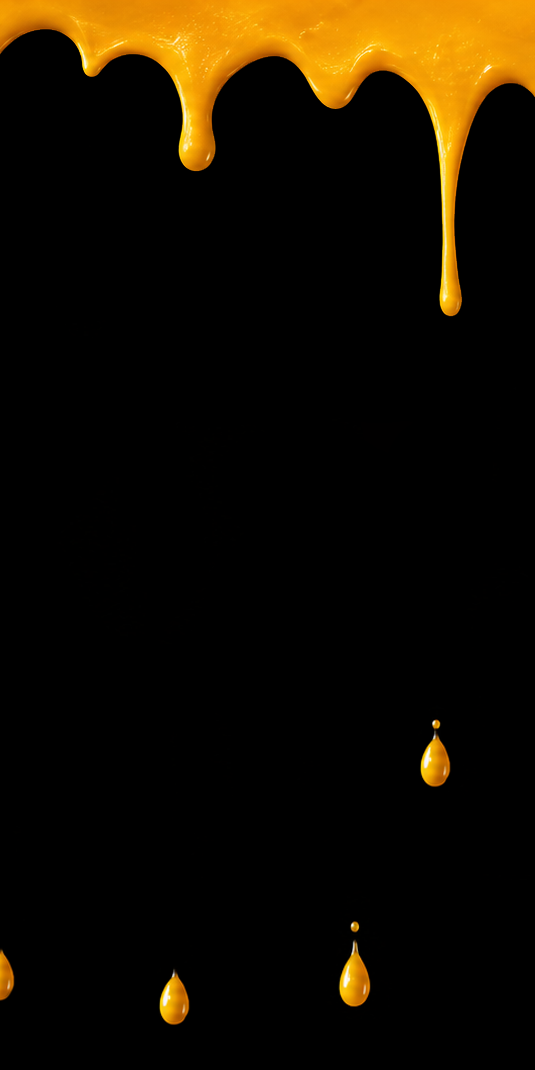
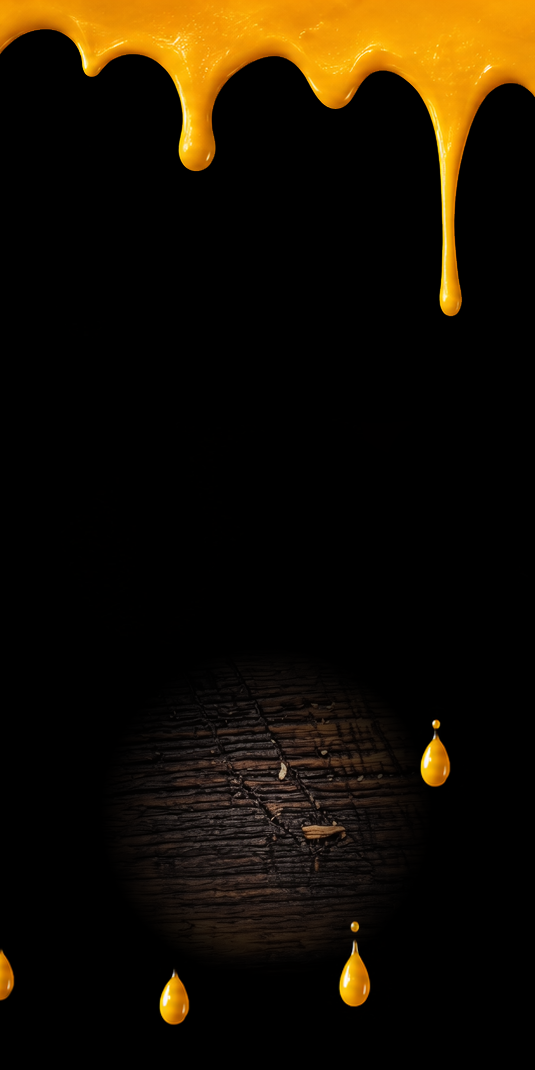
hero y navbar casi acabados

Changed region(s): [[0.2692, 0.6477, 0.7477, 0.8944]]

diff --git a/index.html b/index.html
@@ -41,8 +41,18 @@
                                         href="#contact">Contact</a>
                         </div>
                         <!-- Desktop CTA -->
-                        <div class="hidden md:block">
-                                <a class="bg-primary-container text-black px-6 py-2 rounded-full font-label-sm text-label-sm hover:bg-primary transition-all duration-200 hover:scale-105 active:scale-95 uppercase tracking-widest font-bold shadow-[0_4px_14px_rgba(255,186,32,0.2)] border-2 border-black flex items-center gap-2"
+                        <div class="hidden md:flex items-center gap-3">
+                                <a class="bg-black text-white px-6 py-2 rounded-full font-label-sm text-label-sm hover:bg-black transition-all duration-200 hover:scale-105 active:scale-95 uppercase tracking-widest font-bold border-2 border-white flex items-center gap-2"
+                                        href="https://maps.app.goo.gl/KH9D7vbmQKSd7YmFA">
+                                        <svg xmlns="http://www.w3.org/2000/svg" viewBox="0 0 24 24" fill="currentColor"
+                                                width="18" height="18">
+                                                <path fill-rule="evenodd"
+                                                        d="M11.54 22.351l.07.04.028.016a.76.76 0 00.723 0l.028-.015.071-.041a16.975 16.975 0 001.144-.742 19.58 19.58 0 002.683-2.282c1.944-1.99 3.963-4.98 3.963-8.827a8.25 8.25 0 00-16.5 0c0 3.846 2.02 6.837 3.963 8.827a19.58 19.58 0 002.682 2.282 16.975 16.975 0 001.145.742zM12 13.5a3 3 0 100-6 3 3 0 000 6z"
+                                                        clip-rule="evenodd" />
+                                        </svg>
+                                        Find Us
+                                </a>
+                                <a class="bg-black text-white px-6 py-2 rounded-full font-label-sm text-label-sm hover:bg-black transition-all duration-200 hover:scale-105 active:scale-95 uppercase tracking-widest font-bold border-2 border-white flex items-center gap-2"
                                         href="https://wolt.com/en/isl/reykjavik/restaurant/andrezrvk">
                                         <svg xmlns="http://www.w3.org/2000/svg" viewBox="60 95 150 110" width="22"
                                                 height="16">
@@ -76,7 +86,17 @@
                                 href="#reviews">Reviews</a>
                         <a class="text-on-surface hover:text-primary-container pl-3 py-2 font-label-sm text-label-sm transition-colors duration-200 uppercase tracking-widest border-b border-surface-container-high/50"
                                 href="#contact">Contact</a>
-                        <a class="bg-primary-container text-black text-center py-3.5 rounded-full font-label-sm text-label-sm hover:bg-primary transition-all duration-200 uppercase tracking-widest font-bold mt-4 border-2 border-black flex items-center justify-center gap-2"
+                        <a class="bg-black text-white text-center py-3.5 rounded-full font-label-sm text-label-sm hover:bg-black transition-all duration-200 uppercase tracking-widest font-bold mt-4 border-2 border-white flex items-center justify-center gap-2"
+                                href="https://maps.app.goo.gl/KH9D7vbmQKSd7YmFA">
+                                <svg xmlns="http://www.w3.org/2000/svg" viewBox="0 0 24 24" fill="currentColor"
+                                        width="20" height="20">
+                                        <path fill-rule="evenodd"
+                                                d="M11.54 22.351l.07.04.028.016a.76.76 0 00.723 0l.028-.015.071-.041a16.975 16.975 0 001.144-.742 19.58 19.58 0 002.683-2.282c1.944-1.99 3.963-4.98 3.963-8.827a8.25 8.25 0 00-16.5 0c0 3.846 2.02 6.837 3.963 8.827a19.58 19.58 0 002.682 2.282 16.975 16.975 0 001.145.742zM12 13.5a3 3 0 100-6 3 3 0 000 6z"
+                                                clip-rule="evenodd" />
+                                </svg>
+                                Find Us
+                        </a>
+                        <a class="bg-black text-white text-center py-3.5 rounded-full font-label-sm text-label-sm hover:bg-black transition-all duration-200 uppercase tracking-widest font-bold border-2 border-white flex items-center justify-center gap-2"
                                 href="https://wolt.com/en/isl/reykjavik/restaurant/andrezrvk">
                                 <svg xmlns="http://www.w3.org/2000/svg" viewBox="60 95 150 110" width="22" height="16">
                                         <path d="M 75 110 L 105 190 L 135 110 L 165 190 L 195 110" fill="none"
@@ -115,9 +135,73 @@
                                                 class="lg:col-span-7 flex flex-col items-start text-left space-y-6 z-20 reveal">
                                                 <h1 class="text-[40px] leading-[56px] md:text-[64px] md:leading-[84px] text-on-background max-w-2xl"
                                                         style="font-family: 'Merriweather', serif;">
-                                                        <span>Authentic French Tacos &amp; Crepes
-                                                                in the Heart of Reykjavík</span>
+                                                        <span>Authentic French <span
+                                                                        class="gold-text-shiny">Tacos</span> &amp; <span
+                                                                        class="gold-text-shiny">Crepes</span>
+                                                                in the Heart of <span
+                                                                        class="gold-text-shiny">Reykjavík</span></span>
                                                 </h1>
+
+                                                <!-- Yellow Dividing Line -->
+                                                <div class="h-[2px] w-24 bg-[#ffba20] my-2 rounded-full"></div>
+
+                                                <!-- Google Rating Section -->
+                                                <div class="flex items-center flex-wrap gap-x-3 gap-y-1 text-on-background/90"
+                                                        style="font-family: 'Merriweather', serif;">
+                                                        <span class="text-sm font-semibold tracking-wide italic">Google
+                                                                Rating: <span
+                                                                        class="font-bold text-[#ffba20]">4.7</span>
+                                                                stars</span>
+                                                        <div class="flex items-center gap-0.5">
+                                                                <!-- Star 1 -->
+                                                                <svg xmlns="http://www.w3.org/2000/svg"
+                                                                        viewBox="0 0 24 24" fill="#ffba20"
+                                                                        class="w-5 h-5">
+                                                                        <path
+                                                                                d="M12 17.27L18.18 21l-1.64-7.03L22 9.24l-7.19-.61L12 2 9.19 8.63 2 9.24l5.46 4.73L5.82 21z" />
+                                                                </svg>
+                                                                <!-- Star 2 -->
+                                                                <svg xmlns="http://www.w3.org/2000/svg"
+                                                                        viewBox="0 0 24 24" fill="#ffba20"
+                                                                        class="w-5 h-5">
+                                                                        <path
+                                                                                d="M12 17.27L18.18 21l-1.64-7.03L22 9.24l-7.19-.61L12 2 9.19 8.63 2 9.24l5.46 4.73L5.82 21z" />
+                                                                </svg>
+                                                                <!-- Star 3 -->
+                                                                <svg xmlns="http://www.w3.org/2000/svg"
+                                                                        viewBox="0 0 24 24" fill="#ffba20"
+                                                                        class="w-5 h-5">
+                                                                        <path
+                                                                                d="M12 17.27L18.18 21l-1.64-7.03L22 9.24l-7.19-.61L12 2 9.19 8.63 2 9.24l5.46 4.73L5.82 21z" />
+                                                                </svg>
+                                                                <!-- Star 4 -->
+                                                                <svg xmlns="http://www.w3.org/2000/svg"
+                                                                        viewBox="0 0 24 24" fill="#ffba20"
+                                                                        class="w-5 h-5">
+                                                                        <path
+                                                                                d="M12 17.27L18.18 21l-1.64-7.03L22 9.24l-7.19-.61L12 2 9.19 8.63 2 9.24l5.46 4.73L5.82 21z" />
+                                                                </svg>
+                                                                <!-- Star 5 (70% Filled) -->
+                                                                <svg xmlns="http://www.w3.org/2000/svg"
+                                                                        viewBox="0 0 24 24" class="w-5 h-5">
+                                                                        <defs>
+                                                                                <linearGradient id="partial-star-grad"
+                                                                                        x1="0%" y1="0%" x2="100%"
+                                                                                        y2="0%">
+                                                                                        <stop offset="70%"
+                                                                                                stop-color="#ffba20" />
+                                                                                        <stop offset="70%"
+                                                                                                stop-color="#4a4a4a" />
+                                                                                </linearGradient>
+                                                                        </defs>
+                                                                        <path d="M12 17.27L18.18 21l-1.64-7.03L22 9.24l-7.19-.61L12 2 9.19 8.63 2 9.24l5.46 4.73L5.82 21z"
+                                                                                fill="url(#partial-star-grad)" />
+                                                                </svg>
+                                                        </div>
+                                                        <span
+                                                                class="text-xs text-on-surface-variant font-medium tracking-wide">(+50
+                                                                reviews)</span>
+                                                </div>
 
                                                 <!-- Action Buttons -->
                                                 <div
@@ -559,7 +643,7 @@
                                 class="max-w-7xl mx-auto grid grid-cols-1 md:grid-cols-2 gap-gutter bg-black rounded-none overflow-hidden smooth-shadow reveal">
                                 <div class="p-margin-mobile md:p-margin-desktop flex flex-col justify-center bg-black">
                                         <h2
-                                                class="font-headline-lg-mobile md:font-montserrat-lg text-montserrat    -lg-mobile md:text-montserrat-lg text-on-background mb-base">
+                                                class="font-headline-lg-mobile md:font-headline-lg text-4xl md:text-5xl lg:text-6xl text-on-background mb-base font-bold leading-tight">
                                                 Your Route to Andrez</h2>
                                         <div class="h-1 w-16 bg-primary-container mb-margin-mobile"></div>
 
@@ -675,22 +759,38 @@
                                         href="#">Phone: [phone redacted]</a>
                         </div>
                         <div class="flex flex-col gap-3 items-center md:items-end text-center md:text-right">
-                                <span class="font-label-sm text-label-sm uppercase tracking-widest text-primary-container font-semibold">Follow us on:</span>
+                                <span
+                                        class="font-label-sm text-label-sm uppercase tracking-widest text-primary-container font-semibold">Follow
+                                        us on:</span>
                                 <div class="flex items-center gap-4">
                                         <a class="text-on-surface-variant hover:text-primary-container transition-all duration-200 hover:scale-110"
-                                                href="https://www.facebook.com/people/Andrez/61582365021648/" aria-label="Facebook">
-                                                <svg class="w-6 h-6 fill-current" viewBox="0 0 24 24" xmlns="http://www.w3.org/2000/svg">
-                                                        <path d="M9 8H7v3h2v9h4v-9h3.6l.4-3h-4V6.5C13 5.3 13.7 5 14.5 5H16V2h-3C10.5 2 9 3.5 9 6v2z"/>
+                                                href="https://www.facebook.com/people/Andrez/61582365021648/"
+                                                aria-label="Facebook">
+                                                <svg class="w-6 h-6 fill-current" viewBox="0 0 24 24"
+                                                        xmlns="http://www.w3.org/2000/svg">
+                                                        <path
+                                                                d="M9 8H7v3h2v9h4v-9h3.6l.4-3h-4V6.5C13 5.3 13.7 5 14.5 5H16V2h-3C10.5 2 9 3.5 9 6v2z" />
                                                 </svg>
                                         </a>
                                         <a class="text-on-surface-variant hover:text-primary-container transition-all duration-200 hover:scale-110"
                                                 href="https://www.instagram.com/andrezrvk" aria-label="Instagram">
-                                                <svg class="w-6 h-6 fill-current" viewBox="0 0 24 24" xmlns="http://www.w3.org/2000/svg">
-                                                        <path d="M12 2.163c3.204 0 3.584.012 4.85.07 3.252.148 4.771 1.691 4.919 4.919.058 1.265.069 1.645.069 4.849 0 3.205-.012 3.584-.069 4.849-.149 3.225-1.664 4.771-4.919 4.919-1.266.058-1.644.07-4.85.07-3.204 0-3.584-.012-4.849-.07-3.26-.149-4.771-1.699-4.919-4.92-.058-1.265-.07-1.644-.07-4.849 0-3.204.013-3.583.07-4.849.149-3.227 1.664-4.771 4.919-4.919 1.266-.057 1.645-.069 4.849-.069zM12 0C8.741 0 8.333.014 7.053.072 2.695.272.273 2.69.073 7.051.014 8.333 0 8.741 0 12c0 3.259.014 3.668.072 4.948.2 4.358 2.618 6.78 6.98 6.98 1.281.058 1.689.072 4.948.072 3.259 0 3.668-.014 4.948-.072 4.354-.2 6.782-2.618 6.979-6.98.059-1.28.073-1.689.073-4.948 0-3.259-.014-3.667-.072-4.947-.196-4.354-2.617-6.78-6.979-6.98C15.668.014 15.259 0 12 0zm0 5.838a6.162 6.162 0 100 12.324 6.162 6.162 0 000-12.324zM12 16a4 4 0 110-8 4 4 0 010 8zm6.406-11.845a1.44 1.44 0 100 2.881 1.44 1.44 0 000-2.881z"/>
+                                                <svg class="w-6 h-6 fill-current" viewBox="0 0 24 24"
+                                                        xmlns="http://www.w3.org/2000/svg">
+                                                        <path
+                                                                d="M12 2.163c3.204 0 3.584.012 4.85.07 3.252.148 4.771 1.691 4.919 4.919.058 1.265.069 1.645.069 4.849 0 3.205-.012 3.584-.069 4.849-.149 3.225-1.664 4.771-4.919 4.919-1.266.058-1.644.07-4.85.07-3.204 0-3.584-.012-4.849-.07-3.26-.149-4.771-1.699-4.919-4.92-.058-1.265-.07-1.644-.07-4.849 0-3.204.013-3.583.07-4.849.149-3.227 1.664-4.771 4.919-4.919 1.266-.057 1.645-.069 4.849-.069zM12 0C8.741 0 8.333.014 7.053.072 2.695.272.273 2.69.073 7.051.014 8.333 0 8.741 0 12c0 3.259.014 3.668.072 4.948.2 4.358 2.618 6.78 6.98 6.98 1.281.058 1.689.072 4.948.072 3.259 0 3.668-.014 4.948-.072 4.354-.2 6.782-2.618 6.979-6.98.059-1.28.073-1.689.073-4.948 0-3.259-.014-3.667-.072-4.947-.196-4.354-2.617-6.78-6.979-6.98C15.668.014 15.259 0 12 0zm0 5.838a6.162 6.162 0 100 12.324 6.162 6.162 0 000-12.324zM12 16a4 4 0 110-8 4 4 0 010 8zm6.406-11.845a1.44 1.44 0 100 2.881 1.44 1.44 0 000-2.881z" />
                                                 </svg>
                                         </a>
                                 </div>
                         </div>
+                </div>
+                <div
+                        class="mt-8 pt-6 border-t border-neutral-800/65 flex justify-center items-center gap-2 text-sm text-on-surface-variant px-margin-mobile md:px-margin-desktop max-w-7xl mx-auto">
+                        <span>Made with love by</span>
+                        <a href="https://www.linkedin.com/company/neocel" target="_blank" rel="noopener noreferrer"
+                                class="inline-flex items-center">
+                                <img src="/neocellogo.png" alt="NeoCel"
+                                        class="h-5 w-auto object-contain opacity-80 hover:opacity-100 transition-opacity duration-200" />
+                        </a>
                 </div>
         </footer>
 </body>

diff --git a/src/style.css b/src/style.css
@@ -205,3 +205,36 @@
 .photo-stack:hover .photo-card-3:not(:hover) {
         transform: rotate(16deg) translate(35px, 20px);
 }
+
+/* Shiny Gold Text style with animated metallic texture */
+.gold-text-shiny {
+        background: linear-gradient(
+                135deg,
+                #bf953f 0%,
+                #fcf6ba 25%,
+                #b38728 50%,
+                #fbf5b7 75%,
+                #aa771c 100%
+        );
+        background-size: 200% auto;
+        -webkit-background-clip: text;
+        -webkit-text-fill-color: transparent;
+        background-clip: text;
+        text-fill-color: transparent;
+        display: inline-block;
+        text-shadow: none;
+        filter: drop-shadow(0px 2px 3px rgba(0, 0, 0, 0.5));
+        animation: goldShine 5s linear infinite;
+}
+
+@keyframes goldShine {
+        0% {
+                background-position: 0% 50%;
+        }
+        50% {
+                background-position: 100% 50%;
+        }
+        100% {
+                background-position: 0% 50%;
+        }
+}